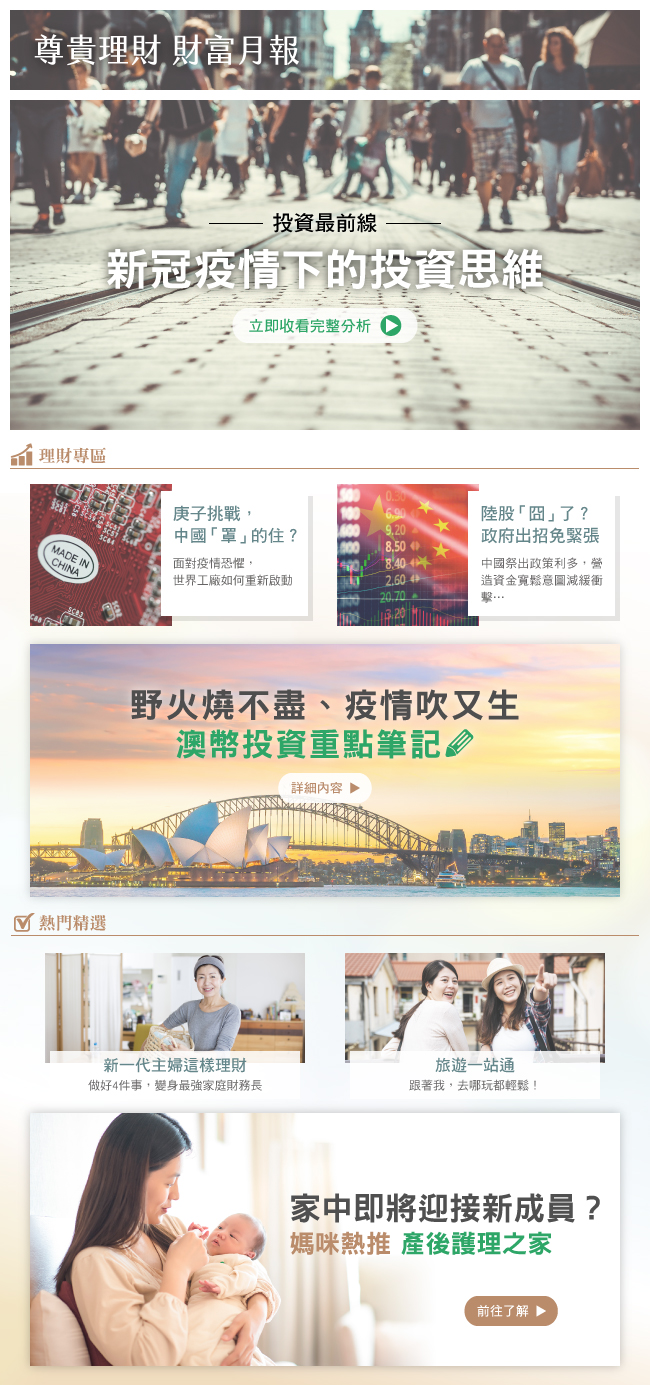
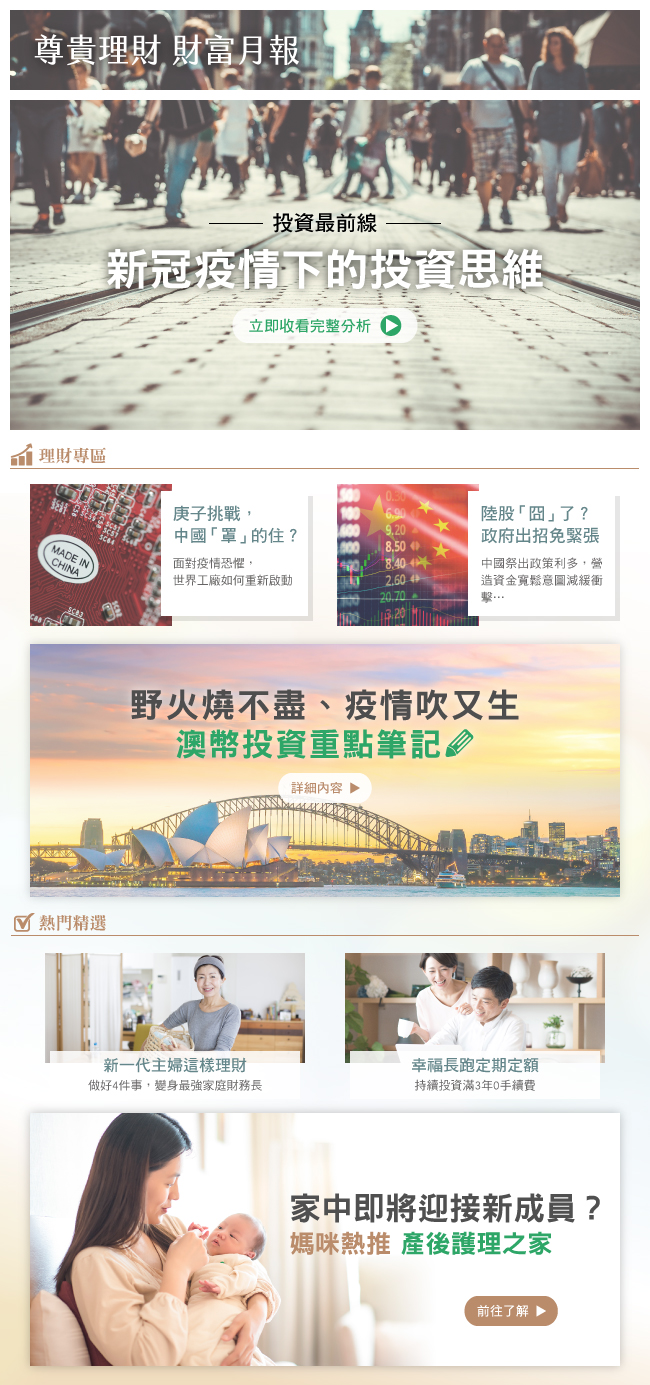
update

Changed region(s): [[0.5231, 0.683, 0.9538, 0.8072]]

diff --git a/monthly-report-202003/index.html b/monthly-report-202003/index.html
@@ -110,7 +110,7 @@
   <area shape="rect" coords="30,484,314,627" href="https://www.cathaybk.com.tw/cathaybk/promo/edm/wealth/product/202003/Wealth01m/index.html?CUB_SRC=EDM&CUB_CHL1=URL&CUB_CHL2=01&MA_TK=WS128&CUB_DT=20200321" target="_blank" alt="庚子挑戰，中國「罩」的住？">
   <area shape="rect" coords="30,644,620,898" href="https://www.cathaybk.com.tw/cathaybk/promo/event/fund/cathayfund/article-pages/market/qa127.html?CUB_SRC=EDM&CUB_CHL1=URL&CUB_CHL2=01&MA_TK=WS128&CUB_DT=20200321" target="_blank" alt="野火燒不盡、疫情吹又生 澳幣投資重點筆記">
   <area shape="rect" coords="45,952,306,1099" href="https://50plus.cwgv.com.tw/articles/17372?CUB_SRC=EDM&CUB_CHL1=URL&CUB_CHL2=01&MA_TK=WS128&CUB_DT=20200321" target="_blank" alt="新一代主婦這樣理財">
-  <area shape="rect" coords="345,952,606,1100" href="https://www.cathaybk.com.tw/cathaybk/digital-service/travel/?CUB_SRC=EDM&CUB_CHL1=URL&CUB_CHL2=01&MA_TK=WS128&CUB_DT=20200321" target="_blank" alt="旅遊一站通">
+  <area shape="rect" coords="344,952,605,1100" href="https://www.cathaybk.com.tw/cathaybk/promo/event/fund/cathayfund/zero/index.html?CUB_SRC=EDM&CUB_CHL1=URL&CUB_CHL2=01&MA_TK=WS128&CUB_DT=20200321#promo" target="_blank" alt="幸福長跑定期定額">
   <area shape="rect" coords="29,1112,621,1367" href="http://www.cathaybabycare.com.tw/contact-us.html?utm_source=newsletter&utm_medium=email&utm_campaign=財富月報&utm_content=財富月報&CUB_SRC=EDM&CUB_CHL1=URL&CUB_CHL2=01&MA_TK=WS128&CUB_DT=20200321" target="_blank" alt="家中即將迎接新成員？媽咪熱推產後護理之家">
 </map>
 <map name="Map2">
